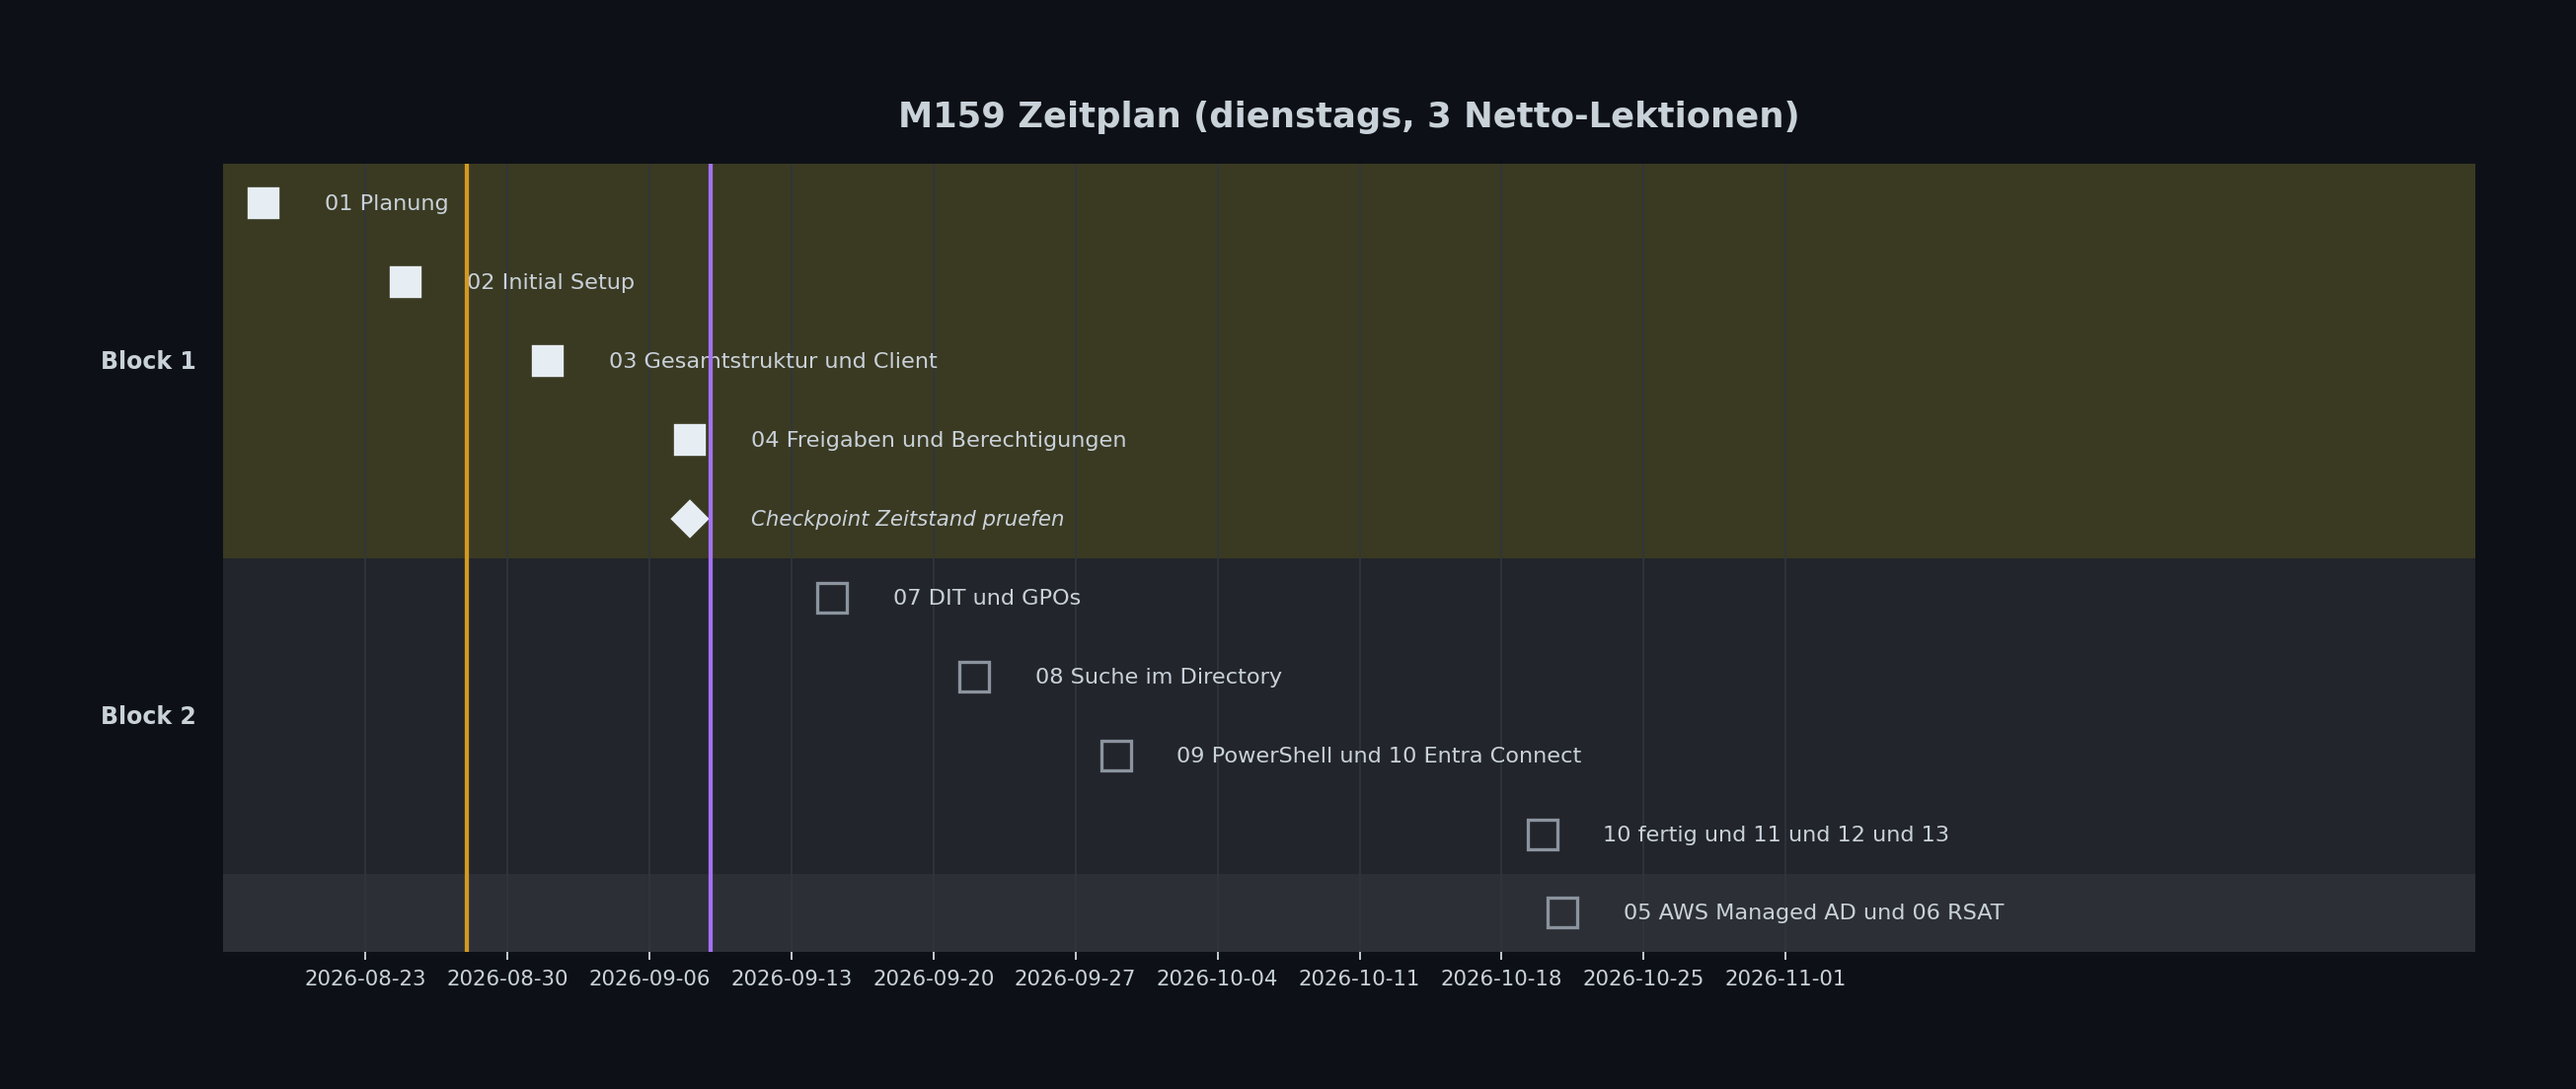
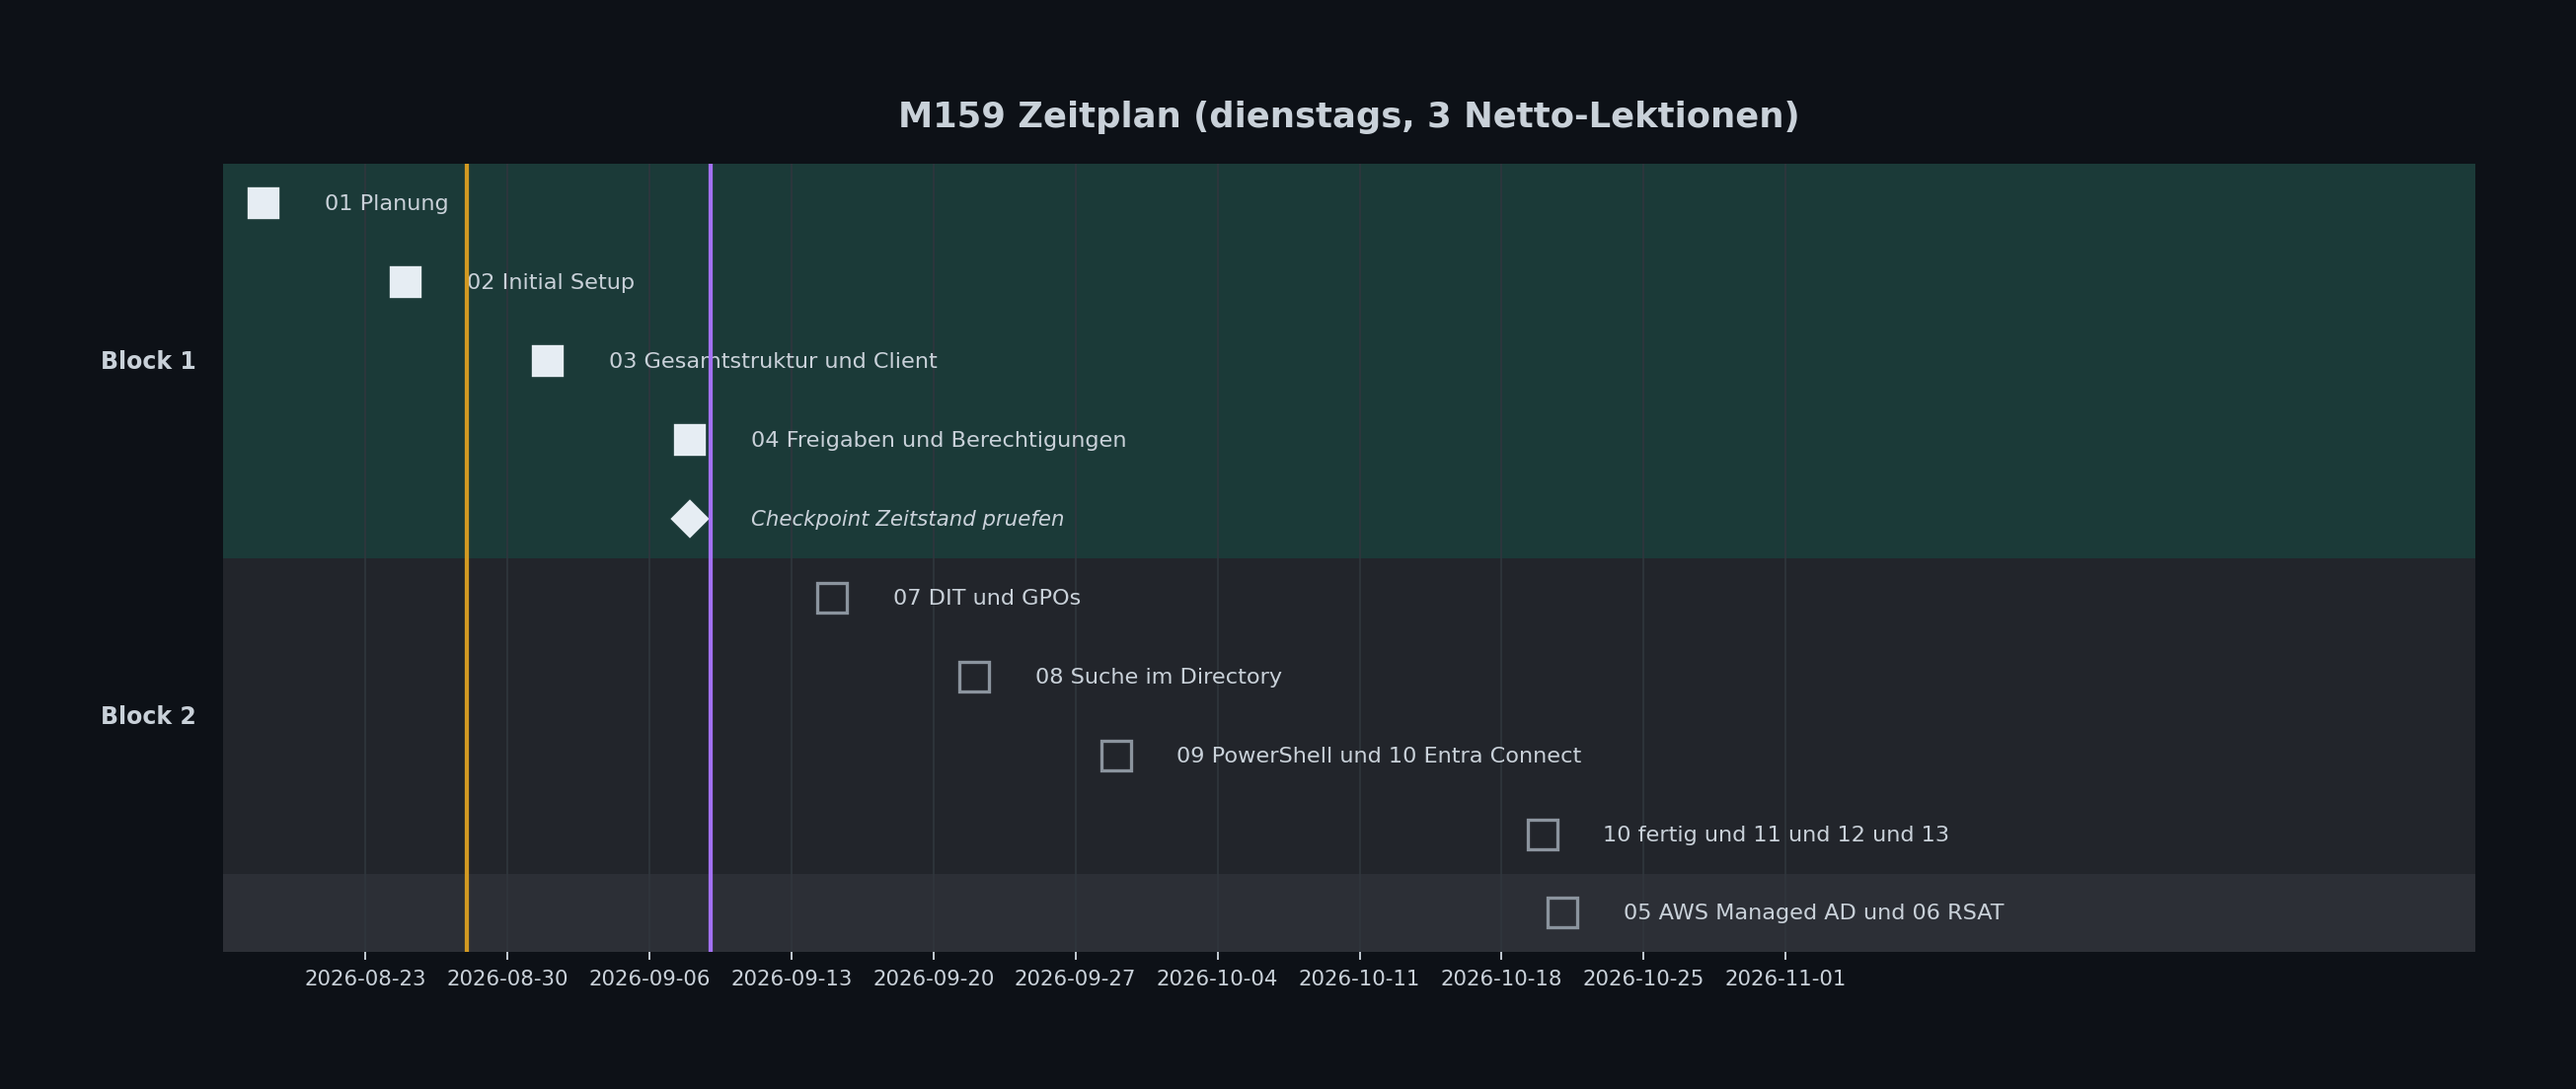
update

diff --git a/README.md b/README.md
@@ -50,8 +50,8 @@ Aufbau einer Active-Directory-Umgebung (Contoso) auf AWS EC2, Integration mit AW
 <td valign="top" width="45%" align="center">
 
 <picture>
-  <source media="(prefers-color-scheme: dark)" srcset="https://quickchart.io/chart?c=%7B%22type%22%3A%22pie%22%2C%22data%22%3A%7B%22labels%22%3A%5B%22Erledigt%20%284%29%22%2C%22Offen%20%289%29%22%5D%2C%22datasets%22%3A%5B%7B%22data%22%3A%5B4%2C9%5D%2C%22backgroundColor%22%3A%5B%22%232ea44f%22%2C%22%238b949e%22%5D%7D%5D%7D%2C%22options%22%3A%7B%22plugins%22%3A%7B%22title%22%3A%7B%22display%22%3Atrue%2C%22text%22%3A%22Auftr%C3%A4ge-Status%20%2813%20total%29%22%2C%22color%22%3A%22%23c9d1d9%22%2C%22font%22%3A%7B%22size%22%3A18%7D%7D%2C%22legend%22%3A%7B%22display%22%3Atrue%2C%22position%22%3A%22right%22%2C%22labels%22%3A%7B%22color%22%3A%22%23c9d1d9%22%2C%22font%22%3A%7B%22size%22%3A14%7D%7D%7D%7D%7D%7D&width=380&height=220&backgroundColor=transparent&format=png&version=4">
-  <img src="https://quickchart.io/chart?c=%7B%22type%22%3A%22pie%22%2C%22data%22%3A%7B%22labels%22%3A%5B%22Erledigt%20%284%29%22%2C%22Offen%20%289%29%22%5D%2C%22datasets%22%3A%5B%7B%22data%22%3A%5B4%2C9%5D%2C%22backgroundColor%22%3A%5B%22%232ea44f%22%2C%22%238b949e%22%5D%7D%5D%7D%2C%22options%22%3A%7B%22plugins%22%3A%7B%22title%22%3A%7B%22display%22%3Atrue%2C%22text%22%3A%22Auftr%C3%A4ge-Status%20%2813%20total%29%22%2C%22color%22%3A%22%231f2328%22%2C%22font%22%3A%7B%22size%22%3A18%7D%7D%2C%22legend%22%3A%7B%22display%22%3Atrue%2C%22position%22%3A%22right%22%2C%22labels%22%3A%7B%22color%22%3A%22%231f2328%22%2C%22font%22%3A%7B%22size%22%3A14%7D%7D%7D%7D%7D%7D&width=380&height=220&backgroundColor=transparent&format=png&version=4" alt="Aufträge-Status: 4 von 13 erledigt" width="380">
+  <source media="(prefers-color-scheme: dark)" srcset="https://quickchart.io/chart?c=%7B%22type%22%3A%22pie%22%2C%22data%22%3A%7B%22labels%22%3A%5B%22Erledigt%20%284%29%22%2C%22Offen%20%289%29%22%5D%2C%22datasets%22%3A%5B%7B%22data%22%3A%5B4%2C9%5D%2C%22backgroundColor%22%3A%5B%22%231b7f79%22%2C%22%236e7681%22%5D%7D%5D%7D%2C%22options%22%3A%7B%22plugins%22%3A%7B%22title%22%3A%7B%22display%22%3Atrue%2C%22text%22%3A%22Auftr%C3%A4ge-Status%20%2813%20total%29%22%2C%22color%22%3A%22%23c9d1d9%22%2C%22font%22%3A%7B%22size%22%3A18%7D%7D%2C%22legend%22%3A%7B%22display%22%3Atrue%2C%22position%22%3A%22right%22%2C%22labels%22%3A%7B%22color%22%3A%22%23c9d1d9%22%2C%22font%22%3A%7B%22size%22%3A14%7D%7D%7D%7D%7D%7D&width=380&height=220&backgroundColor=transparent&format=png&version=4">
+  <img src="https://quickchart.io/chart?c=%7B%22type%22%3A%22pie%22%2C%22data%22%3A%7B%22labels%22%3A%5B%22Erledigt%20%284%29%22%2C%22Offen%20%289%29%22%5D%2C%22datasets%22%3A%5B%7B%22data%22%3A%5B4%2C9%5D%2C%22backgroundColor%22%3A%5B%22%231b7f79%22%2C%22%236e7681%22%5D%7D%5D%7D%2C%22options%22%3A%7B%22plugins%22%3A%7B%22title%22%3A%7B%22display%22%3Atrue%2C%22text%22%3A%22Auftr%C3%A4ge-Status%20%2813%20total%29%22%2C%22color%22%3A%22%231f2328%22%2C%22font%22%3A%7B%22size%22%3A18%7D%7D%2C%22legend%22%3A%7B%22display%22%3Atrue%2C%22position%22%3A%22right%22%2C%22labels%22%3A%7B%22color%22%3A%22%231f2328%22%2C%22font%22%3A%7B%22size%22%3A14%7D%7D%7D%7D%7D%7D&width=380&height=220&backgroundColor=transparent&format=png&version=4" alt="Aufträge-Status: 4 von 13 erledigt" width="380">
 </picture>
 
 </td>
